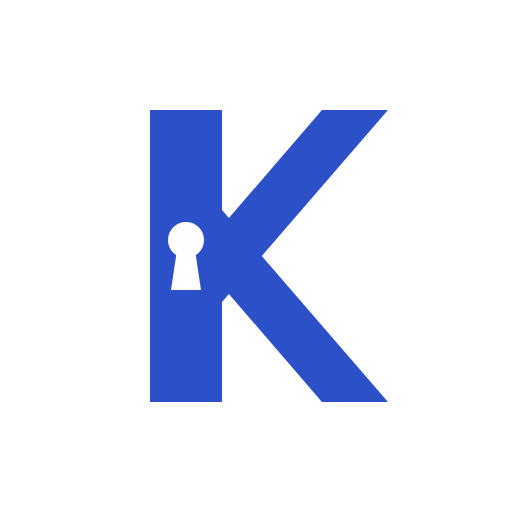
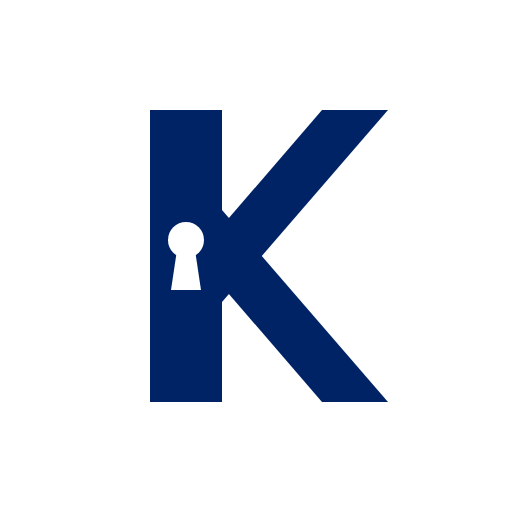
Bleu roi #002366

Changed region(s): [[0.2812, 0.1875, 0.75, 0.8125]]

diff --git a/index.html b/index.html
@@ -44,7 +44,7 @@
   <p class="home-links">
     <button class="link" id="goDemo" type="button">Essayer avec un document d'exemple</button>
   </p>
-  <p class="fineprint">Version 0.2.3 · Logiciel libre, licence Apache 2.0. Fourni tel quel : relisez toujours le résultat avant de l'envoyer.</p>
+  <p class="fineprint">Version 0.2.4 · Logiciel libre, licence Apache 2.0. Fourni tel quel : relisez toujours le résultat avant de l'envoyer.</p>
 </main>
 
 <!-- ============ ESPACE DE TRAVAIL ============ -->

diff --git a/app.js b/app.js
@@ -237,7 +237,7 @@
       c.textAlign = "center"; c.textBaseline = "middle";
       c.fillText(b.token, b.x + b.w / 2, b.y + b.h / 2, b.w - 4);
     } else if (!final) {
-      c.setLineDash([10, 6]); c.lineWidth = Math.max(2, cv.width / 600); c.strokeStyle = "#2B50C8";
+      c.setLineDash([10, 6]); c.lineWidth = Math.max(2, cv.width / 600); c.strokeStyle = "#002366";
       c.strokeRect(b.x, b.y, b.w, b.h);
     }
     if (!final && b.active && b.flag) {

diff --git a/app.css b/app.css
@@ -5,9 +5,9 @@
   --ink:#14202b;        /* texte */
   --muted:#5a6872;      /* texte secondaire */
   --line:#d3dad8;       /* filets */
-  --accent:#2B50C8;     /* bleu roi */
+  --accent:#002366;     /* bleu roi */
   --accent-ink:#ffffff;
-  --accent-soft:#e6ebfa;
+  --accent-soft:#e2e7f1;
   --ok:#2d7a4e;
   --warn:#a5621a;
   --stage:#2a333b;      /* fond derrière le document */

diff --git a/sw.js b/sw.js
@@ -4,7 +4,7 @@
  * 2. Second verrou : refuse toute requête vers un autre site que celui de Kerckhoffs.
  * Changez VERSION à chaque mise à jour de l'application.
  */
-const VERSION = "kerckhoffs-v0.2.3";
+const VERSION = "kerckhoffs-v0.2.4";
 const FILES = [
   "./",
   "index.html",
